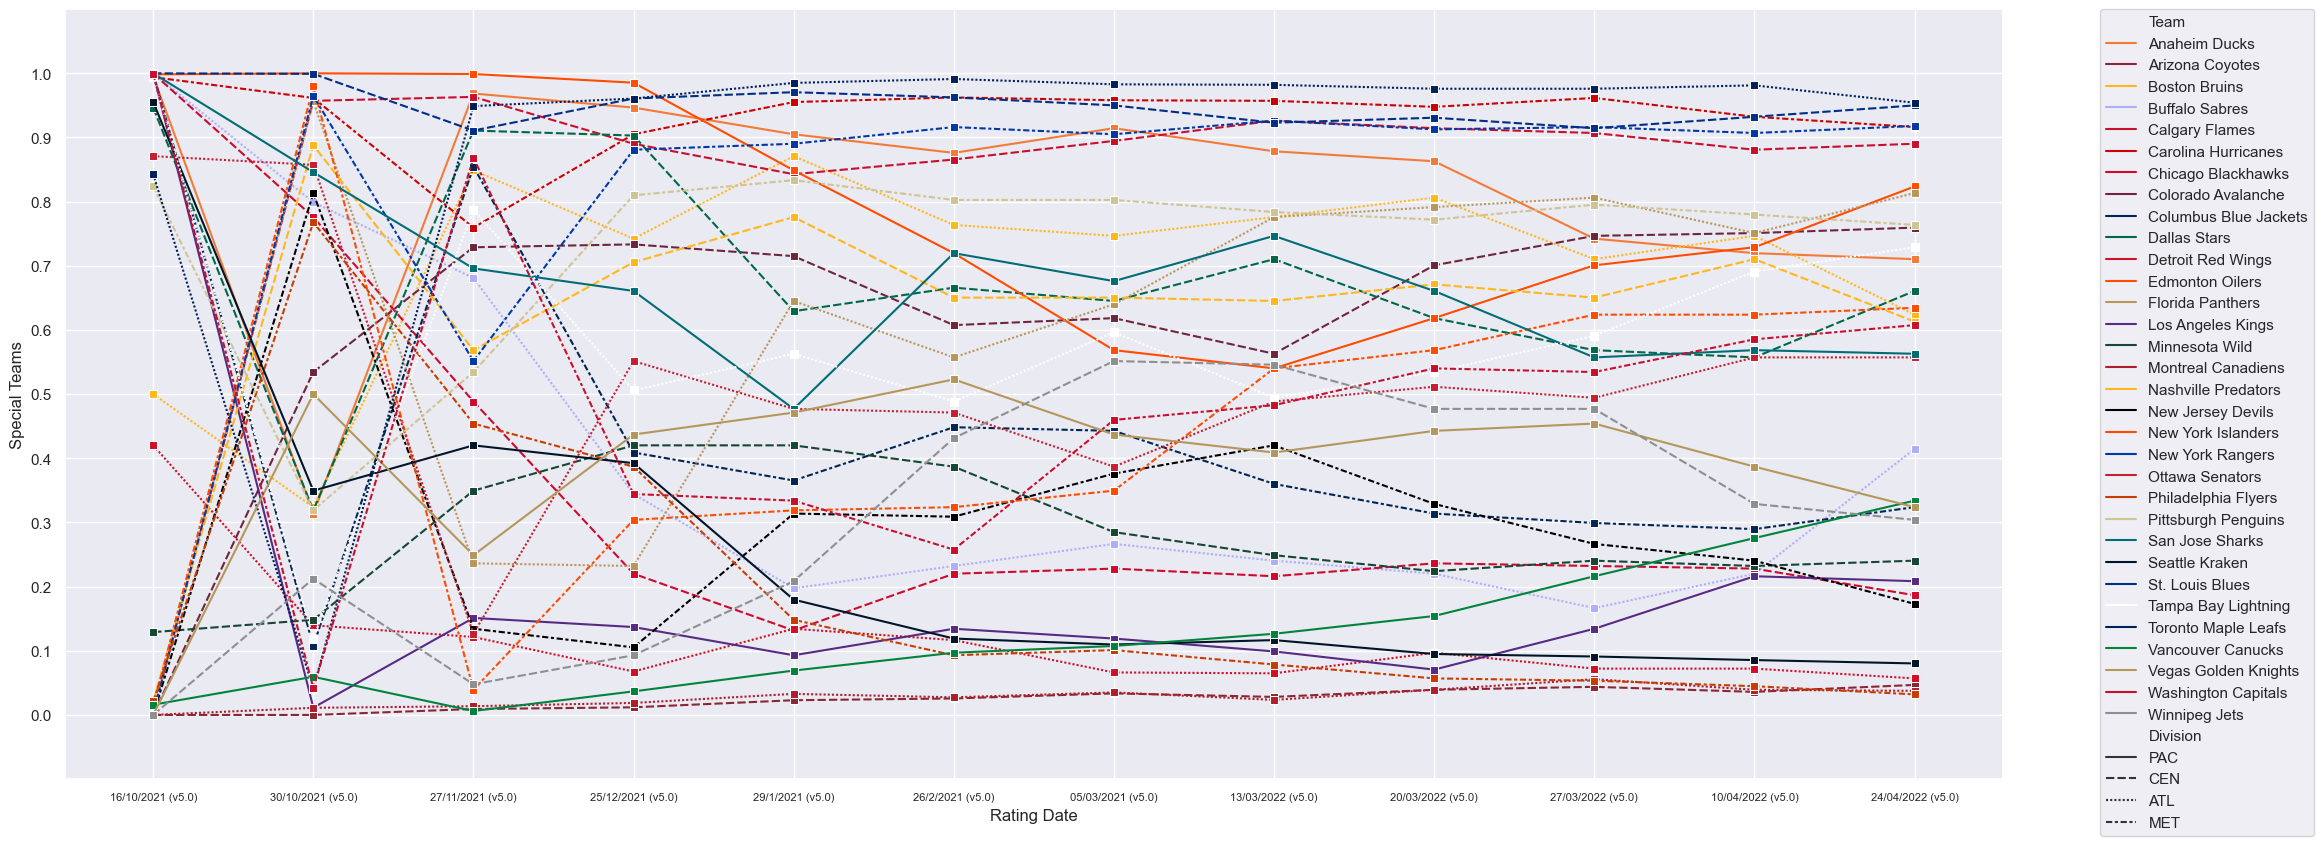
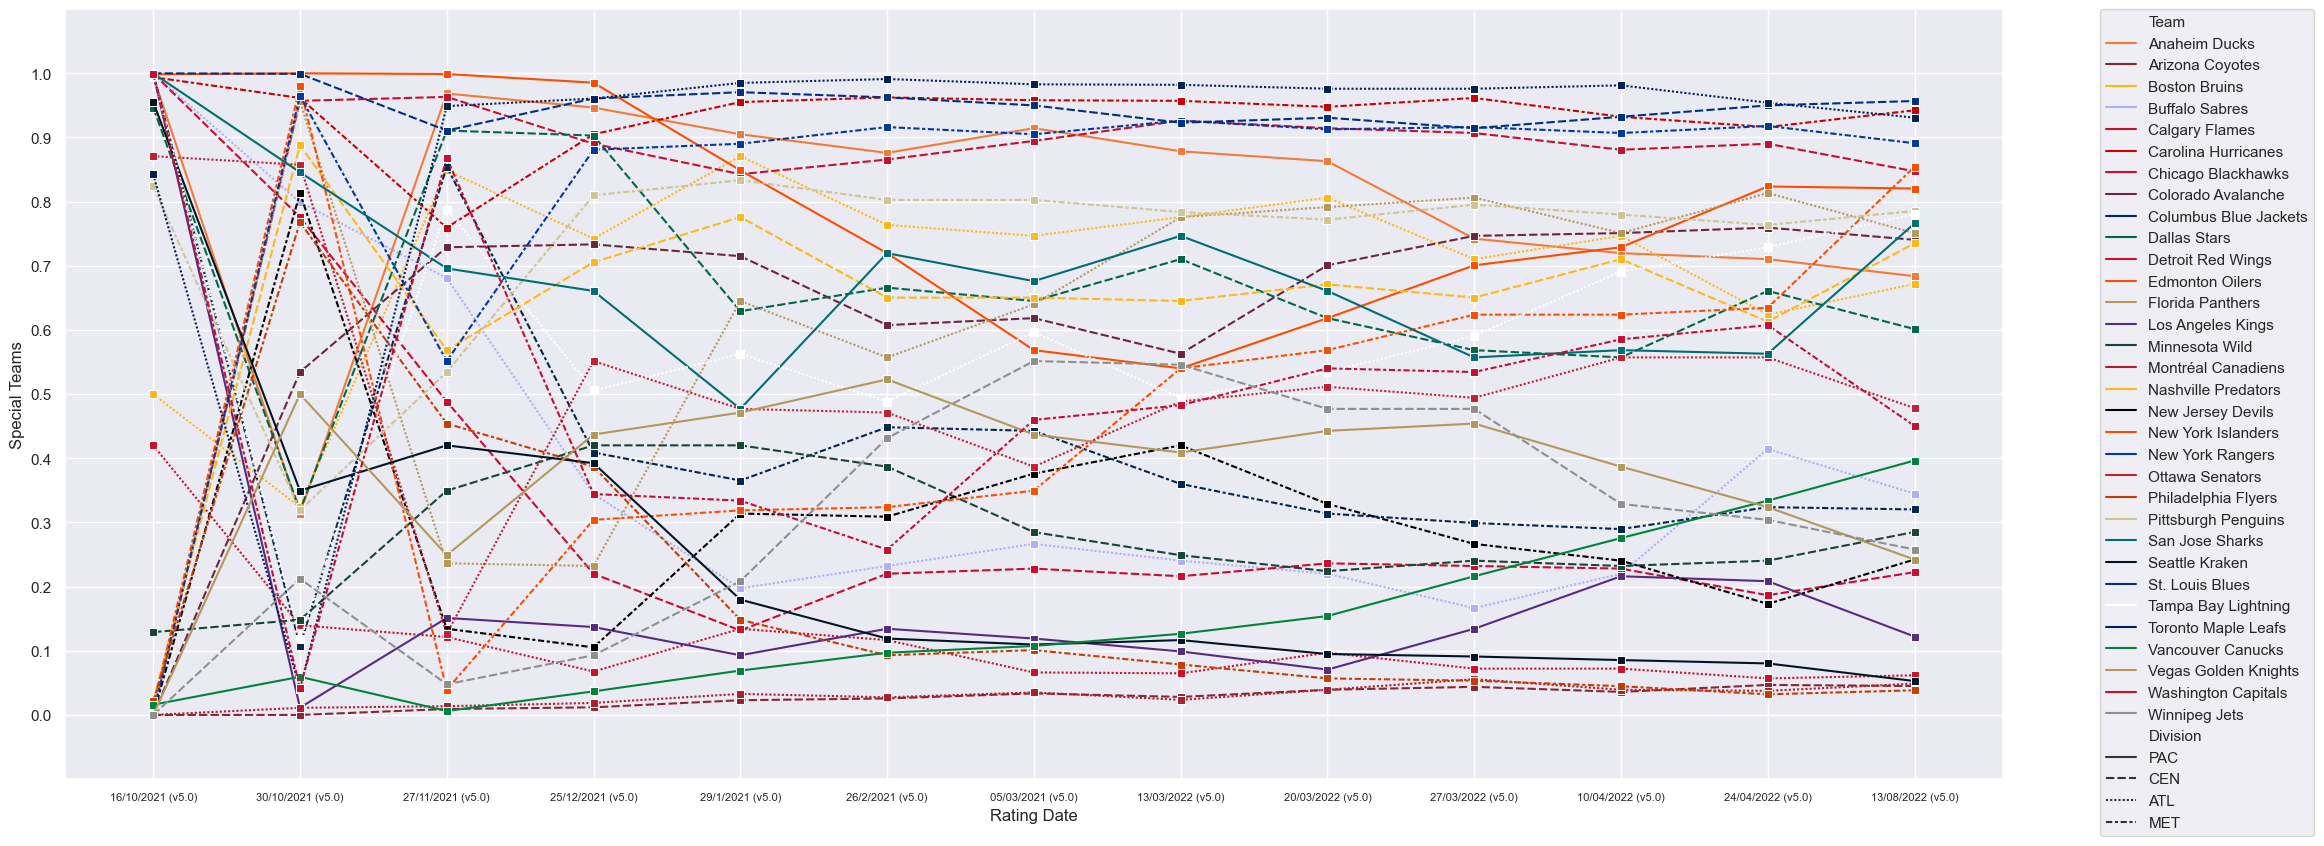
Update to have speical file which dynamically applys sigmoid correction based on the data given -Special teams updated with dynamic sigmoid correction -Engine updated to use new sigmoid correction for special teams

diff --git a/TeamEngine.py b/TeamEngine.py
@@ -15,9 +15,10 @@ from CSV_Writer import *
 from Metrics.Strength_of_Schedule import *
 from Metrics.Win_Rating import *
 from Metrics.Scoring_Rating import *
-from Metrics.Special_Teams import *
+from Metrics.Special_Teams import get_special_teams_dict, special_teams_combine
 from Metrics.Clutch import *
 from Metrics.Recent_Form import *
+from Metrics.Sigmoid_Correction import apply_sigmoid_correction
 
 from Weights import *
 
@@ -48,7 +49,7 @@ team_codes = {
     'Florida Panthers' : 13,
     'Los Angeles Kings' : 26,
     'Minnesota Wild' : 30,
-    'Montreal Canadiens' : 8,
+    'Montréal Canadiens' : 8,
     'Nashville Predators' : 18,
     'New Jersey Devils' : 1,
     'New York Islanders' : 2,
@@ -83,7 +84,7 @@ total_rating = {
     'Florida Panthers' : 0,
     'Los Angeles Kings' : 0,
     'Minnesota Wild' : 0,
-    'Montreal Canadiens' : 0,
+    'Montréal Canadiens' : 0,
     'Nashville Predators' : 0,
     'New Jersey Devils' : 0,
     'New York Islanders' : 0,
@@ -108,7 +109,7 @@ Specialized plotting functions
 def plot_data_set(csv_file : str = "", axis : list = [],
                   upper_bound : float = 0.0, lower_bound : float = 0.0,
                   tick_set : list = [], image_file : str = "") -> None:
-    plot_data = pd.read_csv(csv_file, delimiter='\t')
+    plot_data = pd.read_csv(csv_file, delimiter='\t', encoding='utf-8')
     sns.set_theme()
     team_palette = sns.color_palette(team_color_hex_codes)
     plot = sns.barplot(data=plot_data, x=axis[0], y=axis[1],
@@ -127,7 +128,7 @@ def plot_data_set(csv_file : str = "", axis : list = [],
 def plot_trend_set(csv_file : str = "", axis : list = [],
                    upper_bound : float = 0.0, lower_bound : float = 0.0,
                    tick_set : list = [], image_file : str = "") -> None:
-    plot_data = pd.read_csv(csv_file, delimiter=',')
+    plot_data = pd.read_csv(csv_file, delimiter=',', encoding='utf-8')
     sns.set_theme()
     plotter.figure(figsize=(25, 10), dpi=100)
     team_palette = sns.color_palette(team_color_hex_codes)
@@ -240,18 +241,24 @@ def calculate_special_teams_rating() -> None:
     # combine special teams and plot
     special_teams_combine()
     write_out_file("Output_Files/Instance_Files/SpecialTeams.csv",
-        ["Team", "Special Teams"], special_teams)
+        ["Team", "Special Teams"], get_special_teams_dict())
     plot_data_set("Output_Files/Instance_Files/SpecialTeams.csv",
         ["Team", "Special Teams"], 130, 50, [],
         "Graphs/Special_Teams/special_teams_combined.png")
 
     # apply sigmoid correction and plot
-    special_teams_apply_sigmoid()
+    special_teams = apply_sigmoid_correction(get_special_teams_dict())
     write_out_file("Output_Files/Instance_Files/SpecialTeams.csv",
         ["Team", "Special Teams"], special_teams)
     plot_data_set("Output_Files/Instance_Files/SpecialTeams.csv",
         ["Team", "Special Teams"], 1.0, 0.0, sigmiod_ticks,
         "Graphs/Special_Teams/special_teams_final.png")
+
+    update_trend_file("Output_Files/Trend_Files/SpecialTeams.csv",
+        get_special_teams_dict())
+    plot_trend_set("Output_Files/Trend_Files/SpecialTeams.csv",
+        ["Rating Date", "Special Teams"], 1.1, -.1, sigmiod_ticks,
+        "Graphs/Special_Teams/special_teams_trend.png")
 
 
 def calculate_clutch_rating() -> None:
@@ -302,7 +309,7 @@ def combine_all_factors() -> None:
                 total_rating_weights.WIN_RATING_WEIGHT.value) + \
             (scoring_rating[team] * \
                 total_rating_weights.SCORING_RATING_WEIGHT.value) + \
-            (special_teams[team] * \
+            (get_special_teams_dict()[team] * \
                 total_rating_weights.SPECIAL_TEAMS_RATING_WEIGHT.value) + \
             (clutch_rating[team] * \
                 total_rating_weights.CLUTCH_RATING_WEIGHT.value) + \
@@ -413,7 +420,7 @@ if __name__ == "__main__":
 
             # special teams
             update_trend_file("Output_Files/Trend_Files/SpecialTeams.csv",
-                special_teams)
+                get_special_teams_dict())
             plot_trend_set("Output_Files/Trend_Files/SpecialTeams.csv",
                 ["Rating Date", "Special Teams"], 1.1, -.1, sigmiod_ticks,
                 "Graphs/Special_Teams/special_teams_trend.png")

diff --git a/Metrics/Special_Teams.py b/Metrics/Special_Teams.py
@@ -1,7 +1,5 @@
-from math import exp
 import requests
 import json
-from numpy import std, var, mean
 
 special_teams = {
     'Anaheim Ducks' : 0,
@@ -39,6 +37,10 @@ special_teams = {
 }
 
 
+def get_special_teams_dict() -> dict:
+    return special_teams
+
+
 def special_teams_get_data() -> dict:
     records_url = \
         'https://statsapi.web.nhl.com/api/v1/teams?expand=team.stats'
@@ -51,7 +53,7 @@ def special_teams_get_data() -> dict:
             team["teamStats"][0]["splits"][0]["stat"]["penaltyKillPercentage"]
         special_teams_data[
             team["teamStats"][0]["splits"][0]["team"]["name"]] = [PPper, PKper]
-    return special_teams_data            
+    return special_teams_data
 
 
 def special_teams_combine() -> None:
@@ -62,18 +64,17 @@ def special_teams_combine() -> None:
         special_teams[team] = net_pp + net_pk
 
 
-def special_teams_apply_sigmoid() -> None:
-    for team in special_teams.keys():
-        special_teams[team] = \
-            1/(1 + exp(-(0.23 * (special_teams[team] - 100))))
-
-
 if __name__ == "__main__":
+
+    # localized import only for this file
+    from Sigmoid_Correction import apply_sigmoid_correction
+
+    # combine PP and PK ratings to get the full metric of Special Teams
     special_teams_combine()
     print("Special Teams Ratings:")
     for team in special_teams.keys():
         print("\t" + team + '=' + str(special_teams[team]))
-    special_teams_apply_sigmoid()
+    special_teams = apply_sigmoid_correction(special_teams)
     print("Special Teams Ratings:")
     for team in special_teams.keys():
         print("\t" + team + '=' + str(special_teams[team]))

diff --git a/Metrics/Sigmoid_Correction.py b/Metrics/Sigmoid_Correction.py
@@ -1,0 +1,33 @@
+from math import exp, log
+from numpy import std, mean, abs
+
+
+# The arbitrary sigmoid peak that I've decided to use because reasons
+sigmoid_peak = .990048
+
+# The standard deviation scalar to get the 1st percentile
+ninety_nineth_per = 2.58
+
+
+def solve_for_scalar_value(data_set : dict={}) -> float:
+    mean_val = mean(list(data_set.values()))
+    std_dev = std(list(data_set.values()))
+    return (-1 * log((1 - sigmoid_peak) / sigmoid_peak)) / \
+        ((mean_val + (std_dev * ninety_nineth_per)) - mean_val)
+
+def apply_sigmoid_correction(data_set : dict={}) -> dict:
+    scalar = solve_for_scalar_value(data_set)
+    mean_val = mean(list(data_set.values()))
+    for item in data_set.keys():
+        data_set[item] = \
+            1 / (1 + exp(-1 * (scalar * (data_set[item] - mean_val))))
+    return data_set
+
+
+if __name__ == "__main__":
+    print("solve known sigmoid scalar:")
+    known_scalar = (-1 * log((1 - sigmoid_peak) / sigmoid_peak)) / \
+        (((6.435*2.58) + 99.915) - 99.915)
+    print(known_scalar)
+    print((6.435*2.58) + 99.915)
+    print("Sigmoid Correction:")

diff --git a/CSV_Writer.py b/CSV_Writer.py
@@ -1,5 +1,6 @@
 import csv
 import datetime
+from encodings.utf_8 import encode
 from Weights import *
 
 def write_out_file(file_name : str = "", header_row : list = [],
@@ -23,9 +24,7 @@ def update_trend_file(file_name : str = "", stat_dict : dict = {}) -> None:
     # get the current date and version for that column
     date_rating = date_split[2] + "/" + date_split[1] + "/" + date_split[0] + \
         " (v" + str(VERSION_MAJOR) + "." + str(VERSION_MINOR) + ")"
-
-    #print(ranking_averages)
-    with open(file_name, 'a+', newline='') as csv_date_file:
+    with open(file_name, 'a+', newline='', encoding='utf-8') as csv_date_file:
         csv_writer = csv.writer(csv_date_file, delimiter=',', quotechar='|',
             quoting=csv.QUOTE_MINIMAL)
 

diff --git a/Metrics/Scoring_Rating.py b/Metrics/Scoring_Rating.py
@@ -1,7 +1,7 @@
 import requests
 import json
 from math import exp
-from numpy import std, var, mean, absolute
+from numpy import std, var, mean
 
 scoring_difference = {
     'Anaheim Ducks' : 0,
@@ -132,14 +132,12 @@ def scoring_rating_calc_goal_diff() -> None:
 
         # calculate scoring diff
         scoring_difference[team] = goals_for - goals_against
-        # print("{} : {}".format(team, scoring_difference[team]))
 
 
 def scoring_rating_apply_sigmoid_goal_diff() -> None:
     for team in scoring_difference.keys():
         scoring_difference[team] = \
             1/(1 + exp(-(2.3 * (scoring_difference[team]))))
-        # print("{} : {}".format(team, scoring_difference[team]))
 
 
 def shooting_diff_get_data() -> dict:

diff --git a/Weights.py b/Weights.py
@@ -16,7 +16,7 @@ divisions = {
     'Florida Panthers' : "ATL",
     'Los Angeles Kings' : "PAC",
     'Minnesota Wild' : "CEN",
-    'Montreal Canadiens' : "ATL",
+    'Montréal Canadiens' : "ATL",
     'Nashville Predators' : "CEN",
     'New Jersey Devils' : "MET",
     'New York Islanders' : "MET",
